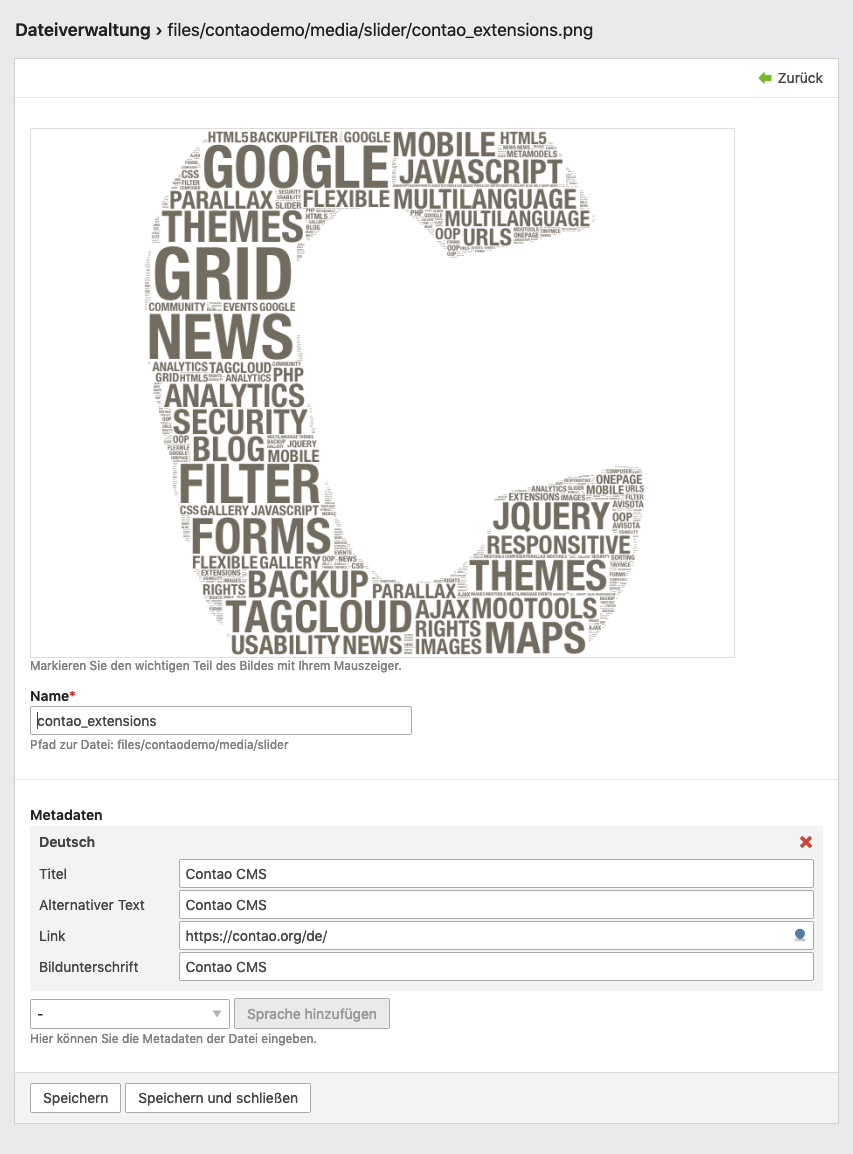
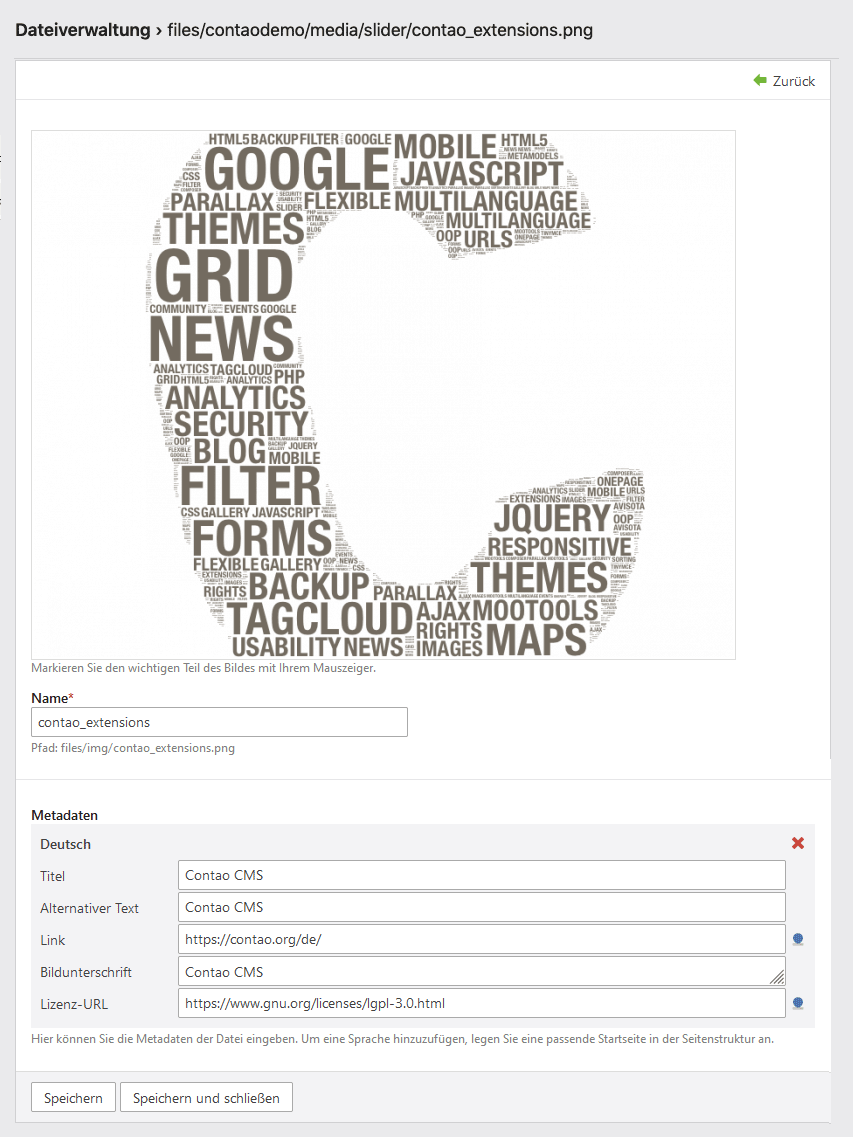
Add description for license URL
Add description for license URL

diff --git a/docs/manual/file-manager/meta-data.de.md b/docs/manual/file-manager/meta-data.de.md
@@ -17,6 +17,7 @@ Contao unterstützt folgende Metadaten:
 - Alternativer Text
 - Link
 - Bildunterschrift
+- Lizenz-URL
 
 ![Pflegen der Metadaten](/de/file-manager/images/de/pflegen-der-metadaten.png?classes=shadow)
 
@@ -32,4 +33,39 @@ Das Inhaltselement vom Elementtyp »Bild« generiert folgenden HTML-Code:
         <figcaption class="caption">Contao CMS</figcaption>
     </figure>
 </div>
+```
+
+{{< version "4.13" >}}
+
+Die Lizenz-URL wird auf der entsprechenden Seite, auf der das Bild eingebunden ist, im [JSON-LD-Format](https://de.wikipedia.org/wiki/ JSON-LD "JSON-LD-Format") als [SCHEMA-ImageObject-Eintrag](https://schema.org/ImageObject "SCHEMA-ImageObject") eingebunden, um Lizensierungshinweisen gerecht zu werden.
+
+**HTML-Ausgabe**
+Die Lizenz-URL generiert folgenden HTML-Code:
+
+```html
+<script type="application/ld+json">
+[
+    {
+        "@context": "https:\/\/schema.org",
+        "@graph": [
+        ...
+            {
+                "@id": "#\/schema\/image\/406494fa-4de4-11ed-abcf-001a4a0502b4",
+                "@type": "ImageObject",
+                "caption": "Contao CMS",
+                "contentUrl": "assets\/images\/c\/contao_extensions-c6607fb7.png",
+                "license": "https:\/\/www.gnu.org\/licenses\/lgpl-3.0.html",
+                "name": "Contao CMS"
+            }
+        ]
+    },
+    ...
+]
+</script>
+```
+
+Um die Lizenz-URL unter dem Bild auf der Seite anzugeben, kann man im Template image.html5 folgenden Code einfügen:
+
+```php
+<?php if($this->license): ?><p class="ce_image__license" ><?= $this->license ?></p><?php endif; ?>
 ```
